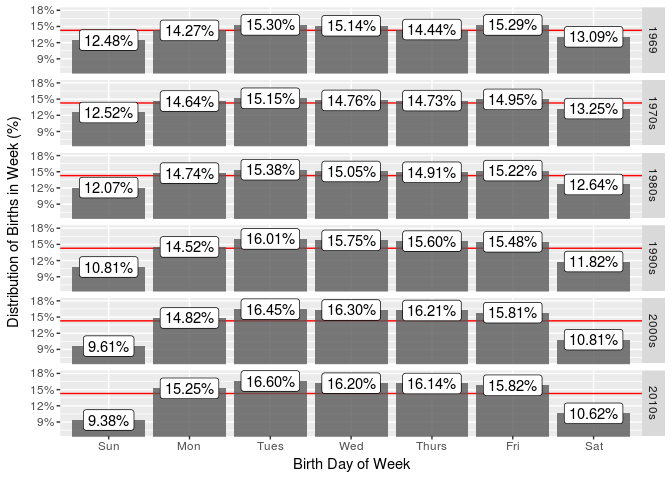
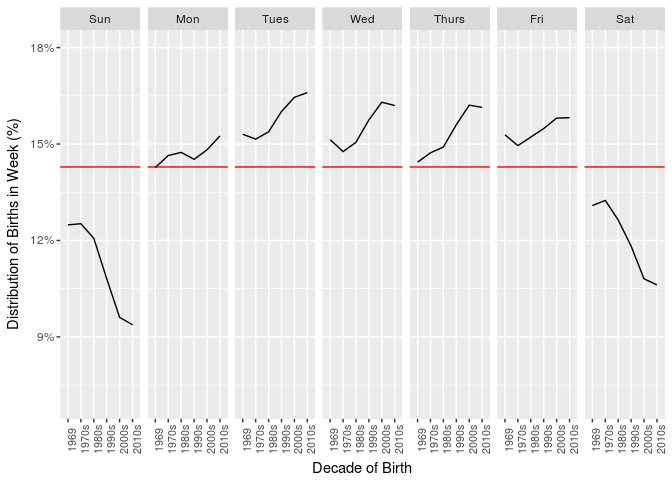
Added summary for DoW exploration

diff --git a/studies/ExploreDoW.md b/studies/ExploreDoW.md
@@ -1,6 +1,12 @@
 # Day of Week Exploration
 [Back to Study Directory](README.md)
 
+# Summary
+
+This document shows that births tend to occur much more frequently on weekdays, and in the middle of the week in particular. This effect was less prevalent in the 70's, but has become more pronounced over time.
+
+# Analysis
+
 
 
 
@@ -97,7 +103,7 @@ b.dow %>%
 
 Our graph includes a line at 14.3%, which is where the weekly share of births would fall for each day if there was no bias toward any particular day. However, the graph reveals that births are not evenly distributed, with births much more heavily weighted towards weekdays than weekends. Sunday in particular falls well below the 14.3% non-bias level. 
 
-To dive a little deeper into this question while still remaining at the "exploratory" level of analysis, we look at how this distribution has changed over time. We will make a nearly identical graph, but we will facet by decades so that we can see if there is a difference in the shape of the distribution over time. We are limiting to decades instead of individual years in order to reduce the number of facets that appear in our graph.
+To dive a little deeper into this question while still remaining at the "exploratory" level of analysis, we look at how this distribution has changed over time. We will recast this graphic with a facet for each weekday, track the decade on the y-axis, and plot our outcomes as a line instead of a bar. This will allow us to much more easily discern how frequently births occur on certain days over time. Again, we include a red line to indicate the point which each day would fall if there were no bias towards particular days of the week for birth.
 
 
 ```r
@@ -107,16 +113,6 @@ b.dow.decades = b.dow %>%
     group_by(birth_decade) %>%  # group again on summarized data for denominator calculation
     mutate(weekly_share = live_births / sum(live_births))
 
-b.dow.decades %>%
-    dow.plot(.) + facet_grid(birth_decade ~ .)
-```
-
-![](ExploreDoW_files/figure-html/unnamed-chunk-2-1.png)<!-- -->
-
-Although this produces a very busy graphic, with careful study we can see that the bias towards weekdays does exist throughout the decades in our data set, and appears to be more extreme in more recent decades. We will recast this graphic with a facet for each weekday, and track the decade on the y-axis.
-
-
-```r
 b.dow.decades %>%
     ggplot(aes(birth_decade, weekly_share, group=birth_weekday)) + 
         facet_grid(. ~ birth_weekday) +
@@ -129,11 +125,11 @@ b.dow.decades %>%
         ylab("Distribution of Births in Week (%)")
 ```
 
-![](ExploreDoW_files/figure-html/unnamed-chunk-3-1.png)<!-- -->
+![](ExploreDoW_files/figure-html/unnamed-chunk-2-1.png)<!-- -->
 
-With this final graphic, it becomes extremely clear that (1) births a much more heavily biased towards weekdays, (2) towards the middle of the week in particular, and (3) this trend has become more extreme over time. 
+With this final graphic, it becomes extremely clear that (1) births are much more heavily biased towards weekdays, (2) births are biased towards the middle of the week in particular, and (3) this trend has become more extreme over time. 
 
-But what does this mean in plain language? We'll propose a theoretical week in which 7000 births occurred. If there was no bias on which day they were born and they occurred completely randomly, then ~1000 births would occur on each day. However, as of the 2010s, the week would probably look like this:
+But what does this mean in plain language? We'll propose a theoretical week in which 7000 births occurr. If there was no bias on which day they were born and births occurred completely randomly, then ~1000 births would occur on each day. However, as of the 2010s, the week would probably look like this:
 
 
 ```r
@@ -145,21 +141,21 @@ b.dow.decades %>%
         Weekday = birth_weekday,
         `Estimated Births` = est
     ) %>%
-    knitr::kable(.)
+    knitr::kable(., format="markdown", align = "r")
 ```
 
 
 
-Weekday    Estimated Births
---------  -----------------
-Sun                     656
-Mon                    1068
-Tues                   1162
-Wed                    1134
-Thurs                  1130
-Fri                    1107
-Sat                     743
+| Weekday| Estimated Births|
+|-------:|----------------:|
+|     Sun|              656|
+|     Mon|             1068|
+|    Tues|             1162|
+|     Wed|             1134|
+|   Thurs|             1130|
+|     Fri|             1107|
+|     Sat|              743|
 
-If historical trends hold, the bias of midweek births will continue to increase, with fewer births occurring on the weekend.
+If historical trends hold, the bias of midweek births will continue to increase and fewer births will occur on the weekend.
 
 [Back to Study Directory](README.md)
